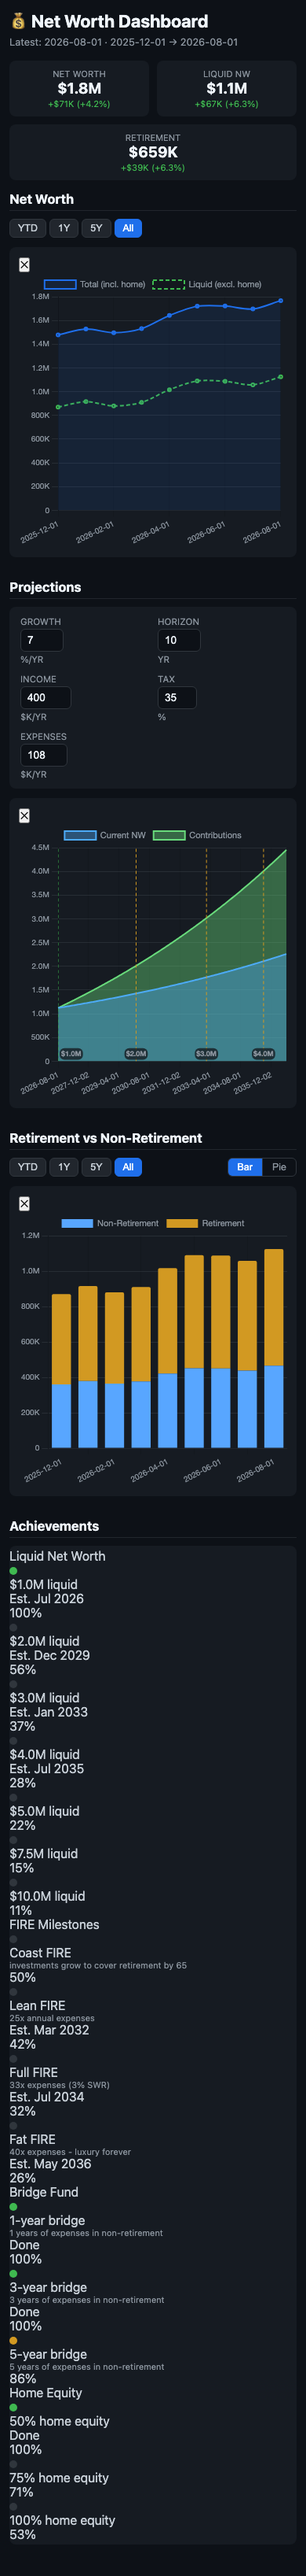
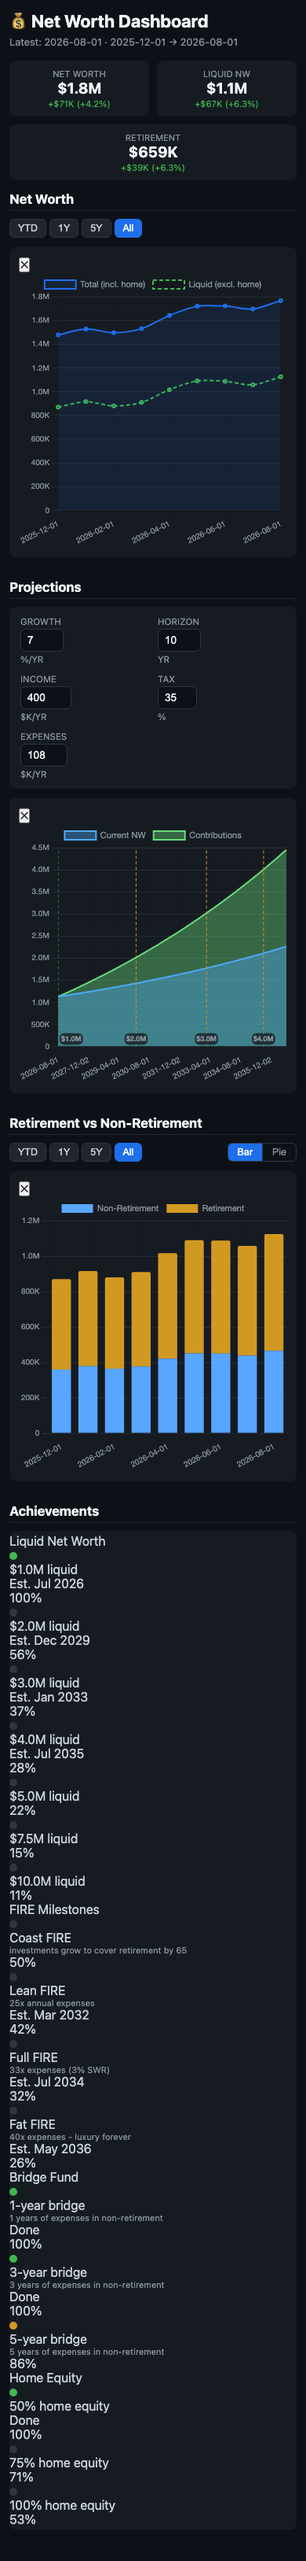
fix: use CSS classes instead of CSS variables for achievement dots — hardcoded colors work on all browsers

diff --git a/docs/index.html b/docs/index.html
@@ -116,10 +116,12 @@
     .ach-group-title::before {
       content: ''; display: inline-block; width: 10px; height: 10px;
       border-radius: 50%; margin-right: 6px; vertical-align: middle;
-      background: var(--ach-color, #8b949e);
-      border: 1.5px solid var(--ach-color, #8b949e);
       opacity: 0.85;
     }
+    .ach-color-liquid::before { background: #3fb950; border: 1.5px solid #3fb950; }
+    .ach-color-fire::before   { background: #d29922; border: 1.5px solid #d29922; }
+    .ach-color-bridge::before { background: #58a6ff; border: 1.5px solid #58a6ff; }
+    .ach-color-home::before   { background: #8b949e; border: 1.5px solid #8b949e; }
     @media (max-width: 480px) {
       body { padding: 8px; }
       .stats-row { gap: 6px; }
@@ -182,7 +184,7 @@
 </div>
 
 <script>
[2 lines of base64/hex data omitted]
 Chart.register(ChartDataLabels);
 
 function sha256(str) {
@@ -520,7 +522,7 @@ function buildAchievementPanel() {
   groups.forEach(g => {
     const items = milestones.filter(m => m.type === g.key);
     if (items.length === 0) return;
-    html += '<div class="ach-group-title" style="--ach-color:' + g.color + '">' + g.title + '</div>';
+    html += '<div class="ach-group-title ach-color-' + g.key + '">' + g.title + '</div>';
     items.forEach(m => {
       const pct = Math.min(100, Math.max(0, m.pct * 100));
       const barClass = m.status === 'done' ? 'done' : (m.status === 'close' ? 'close' : 'far');

diff --git a/templates/index.html b/templates/index.html
@@ -116,10 +116,12 @@
     .ach-group-title::before {
       content: ''; display: inline-block; width: 10px; height: 10px;
       border-radius: 50%; margin-right: 6px; vertical-align: middle;
-      background: var(--ach-color, #8b949e);
-      border: 1.5px solid var(--ach-color, #8b949e);
       opacity: 0.85;
     }
+    .ach-color-liquid::before { background: #3fb950; border: 1.5px solid #3fb950; }
+    .ach-color-fire::before   { background: #d29922; border: 1.5px solid #d29922; }
+    .ach-color-bridge::before { background: #58a6ff; border: 1.5px solid #58a6ff; }
+    .ach-color-home::before   { background: #8b949e; border: 1.5px solid #8b949e; }
     @media (max-width: 480px) {
       body { padding: 8px; }
       .stats-row { gap: 6px; }
@@ -520,7 +522,7 @@ function buildAchievementPanel() {
   groups.forEach(g => {
     const items = milestones.filter(m => m.type === g.key);
     if (items.length === 0) return;
-    html += '<div class="ach-group-title" style="--ach-color:' + g.color + '">' + g.title + '</div>';
+    html += '<div class="ach-group-title ach-color-' + g.key + '">' + g.title + '</div>';
     items.forEach(m => {
       const pct = Math.min(100, Math.max(0, m.pct * 100));
       const barClass = m.status === 'done' ? 'done' : (m.status === 'close' ? 'close' : 'far');
